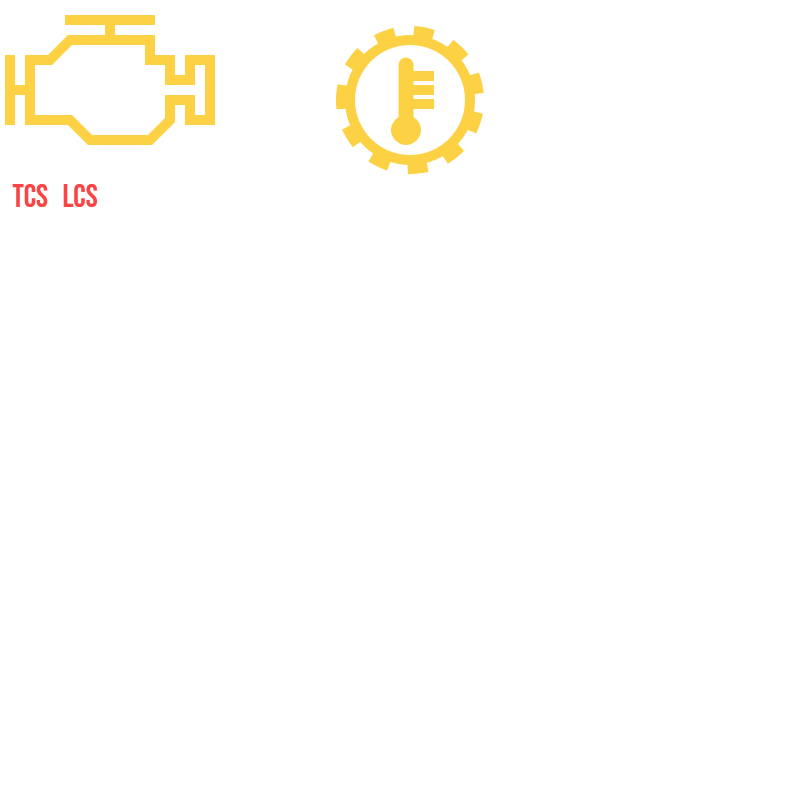
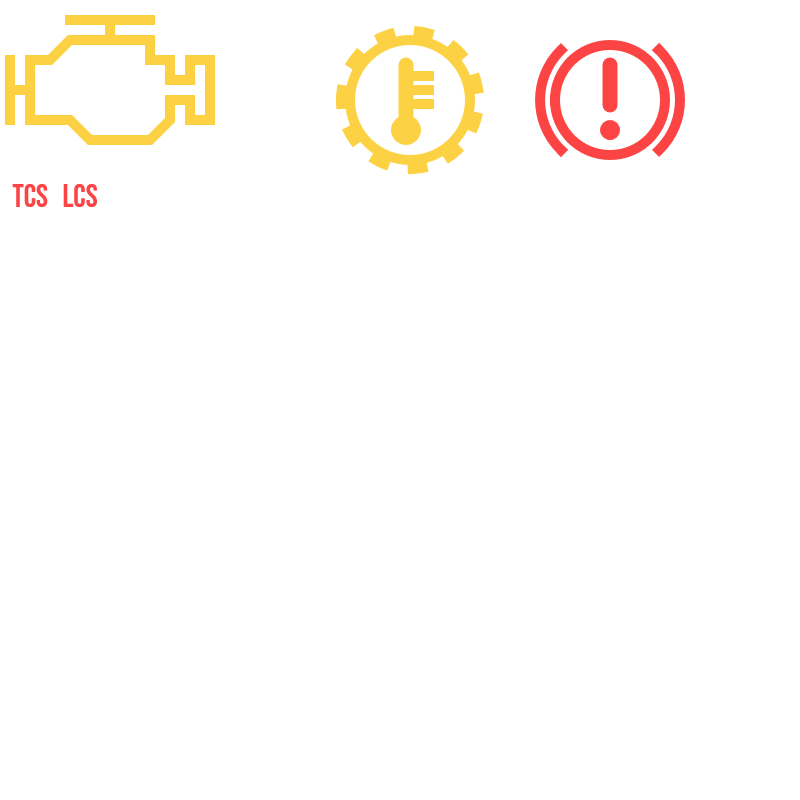
handbrake light

Changed region(s): [[0.6562, 0.0312, 0.875, 0.2188]]

diff --git a/Assets/Scripts/Car.cs b/Assets/Scripts/Car.cs
@@ -89,9 +89,11 @@ public class Car : MonoBehaviour {
     public EngineLight transmissionTemp;
     public EngineLight tcsLight;
     public EngineLight lcsLight;
+    public EngineLight handbrakeLight;
 
     bool tcs = true;
     const int tcsIterations = 4;
+    float handbrakeDown = -999;
     float tcsFrac;
     Vector3 frontAxle, rearAxle;
     float bumpTS = -999;
@@ -196,6 +198,10 @@ public class Car : MonoBehaviour {
 
         tcs = !InputManager.Button(Buttons.HANDBRAKE);
 
+        if (InputManager.ButtonDown(Buttons.HANDBRAKE)) {
+            handbrakeDown = Time.time;
+        }
+
         foreach (Wheel w in wheels) {
             float rpm = GetWheelRPMFromSpeed(Vector3.Dot(rb.velocity, forwardVector));
             if ((w == WheelRR || w == WheelRL) && !clutch && currentGear != 0) {
@@ -281,6 +287,15 @@ public class Car : MonoBehaviour {
             } else {
                 rb.AddForce(-flatSpeed.normalized * brake * settings.brakeForce);
             }
+        }
+
+        if (grounded && Time.time > handbrakeDown + 0.2f && InputManager.Button(Buttons.HANDBRAKE)) {
+            Vector3 flatSpeed = Vector3.Project(rb.velocity, forwardVector);
+            // handbrake doubles brake force (adds it again)
+            rb.AddForce(-flatSpeed.normalized * settings.brakeForce);
+            handbrakeLight.SetOn();
+        } else {
+            handbrakeLight.SetOff();
         }
 
         if (tcs && grounded && rb.velocity.sqrMagnitude > 1f) {
@@ -376,7 +391,7 @@ public class Car : MonoBehaviour {
                         } else if (Mathf.Abs(currentGear) == 1 && engine.PeakPower(idealEngineRPM) && Vector3.Dot(rb.velocity, forwardVector) * u2mph < 5f) {
                             // keep the clutch ratio soft to avoid a money shift on launch
                             PerfectShift(rpmDiff, alert: false);
-                            Alert("perfect launch \n+" + (int) engine.maxPower);
+                            Alert("perfect launch \n+" + (int) engine.maxPower*5);
                             clutchRatio = 0f;
                             rb.AddForce(forwardVector*(settings.launchBoost * mph2u)*Mathf.Sign(currentGear), ForceMode.VelocityChange);
                         } else if (currentGear > 1 && Vector3.Dot(rb.velocity, forwardVector) * u2mph > 1f) {
@@ -425,7 +440,7 @@ public class Car : MonoBehaviour {
 
         if (engineRunning) {
             if (engineRPM < engine.stallRPM) {
-                if (currentGear == 1 && gas > 0.7f) {
+                if (Mathf.Abs(currentGear) == 1 && gas > 0.7f) {
                     // mimic letting the clutch out slowly 
                     engineRPM = engine.stallRPM;
                 } else {
